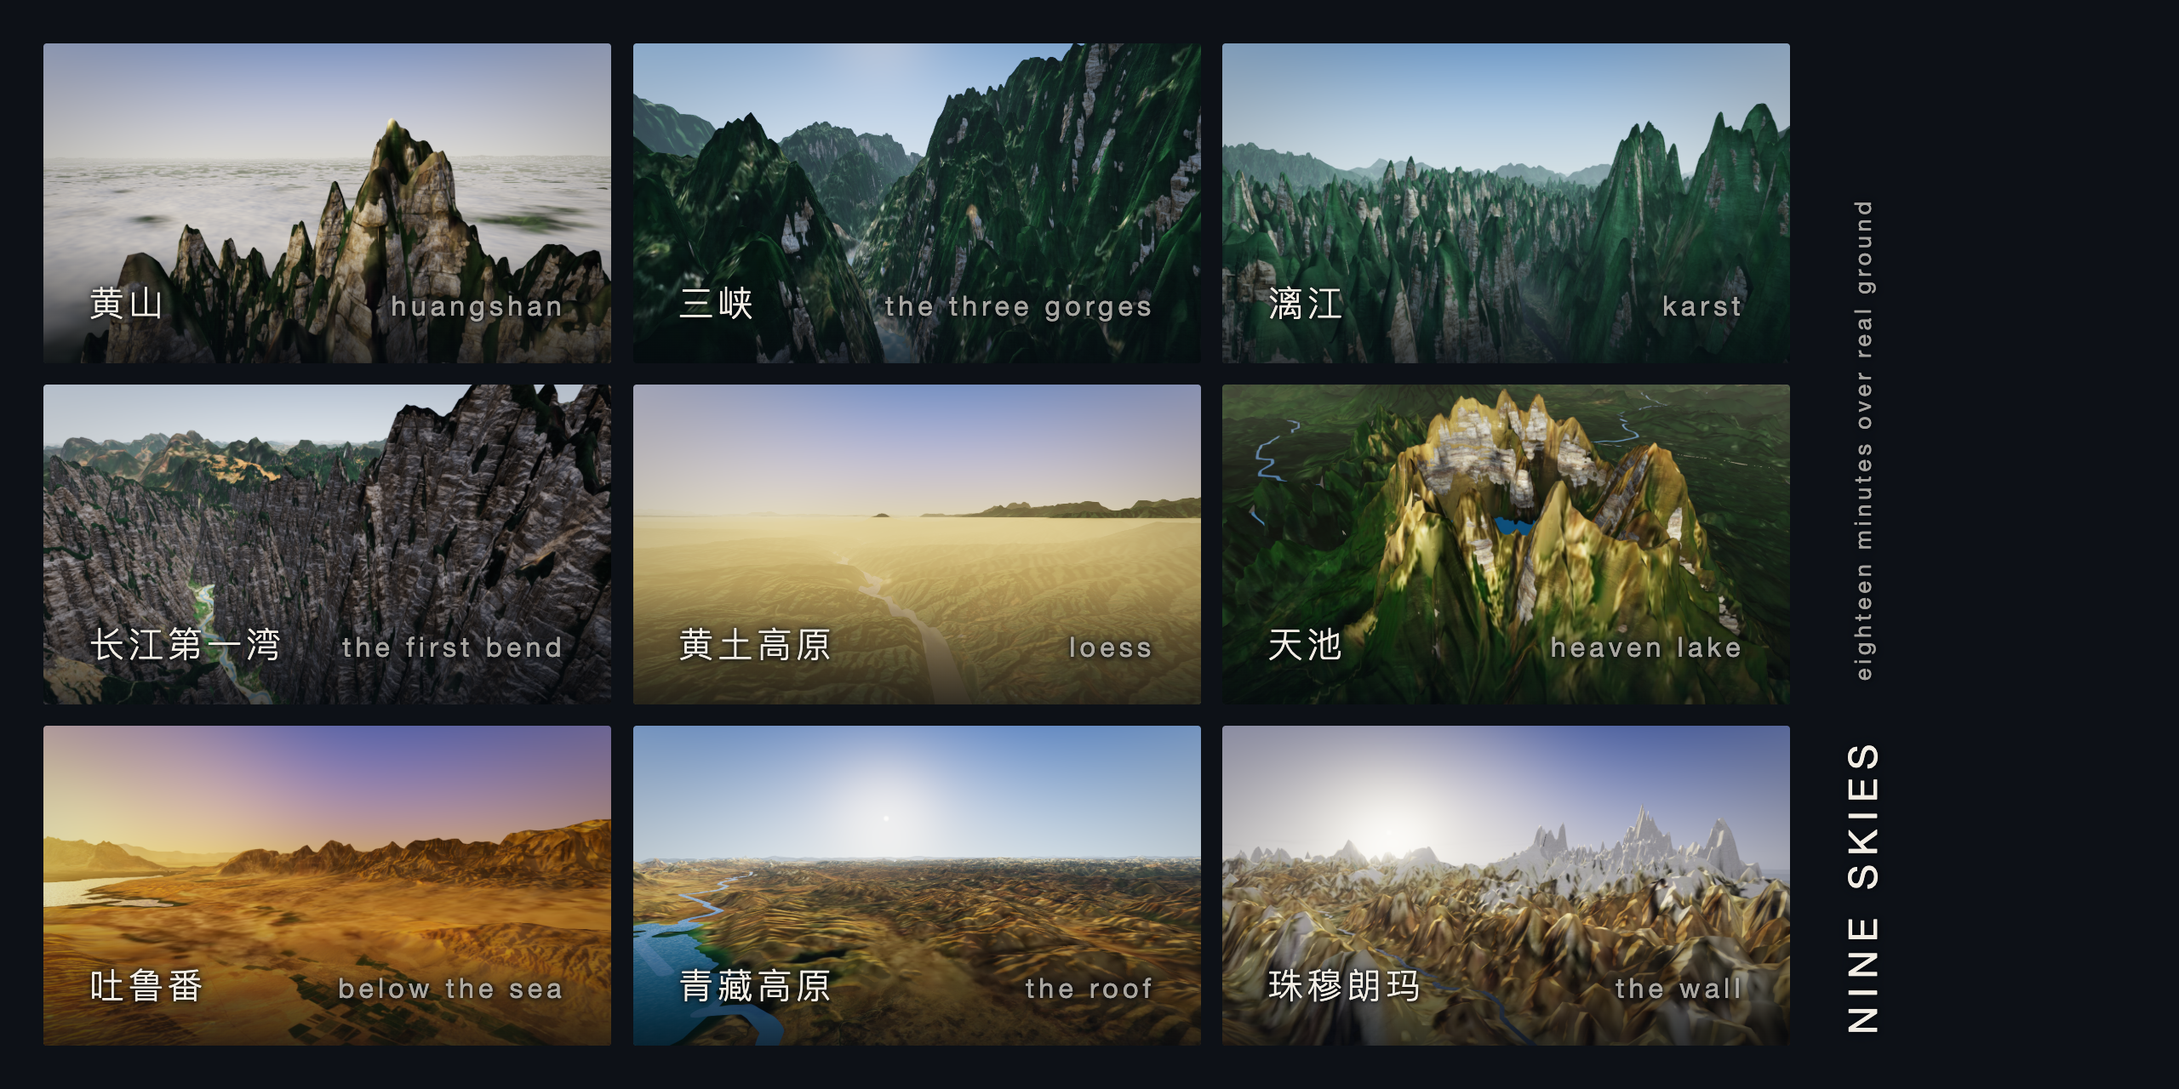
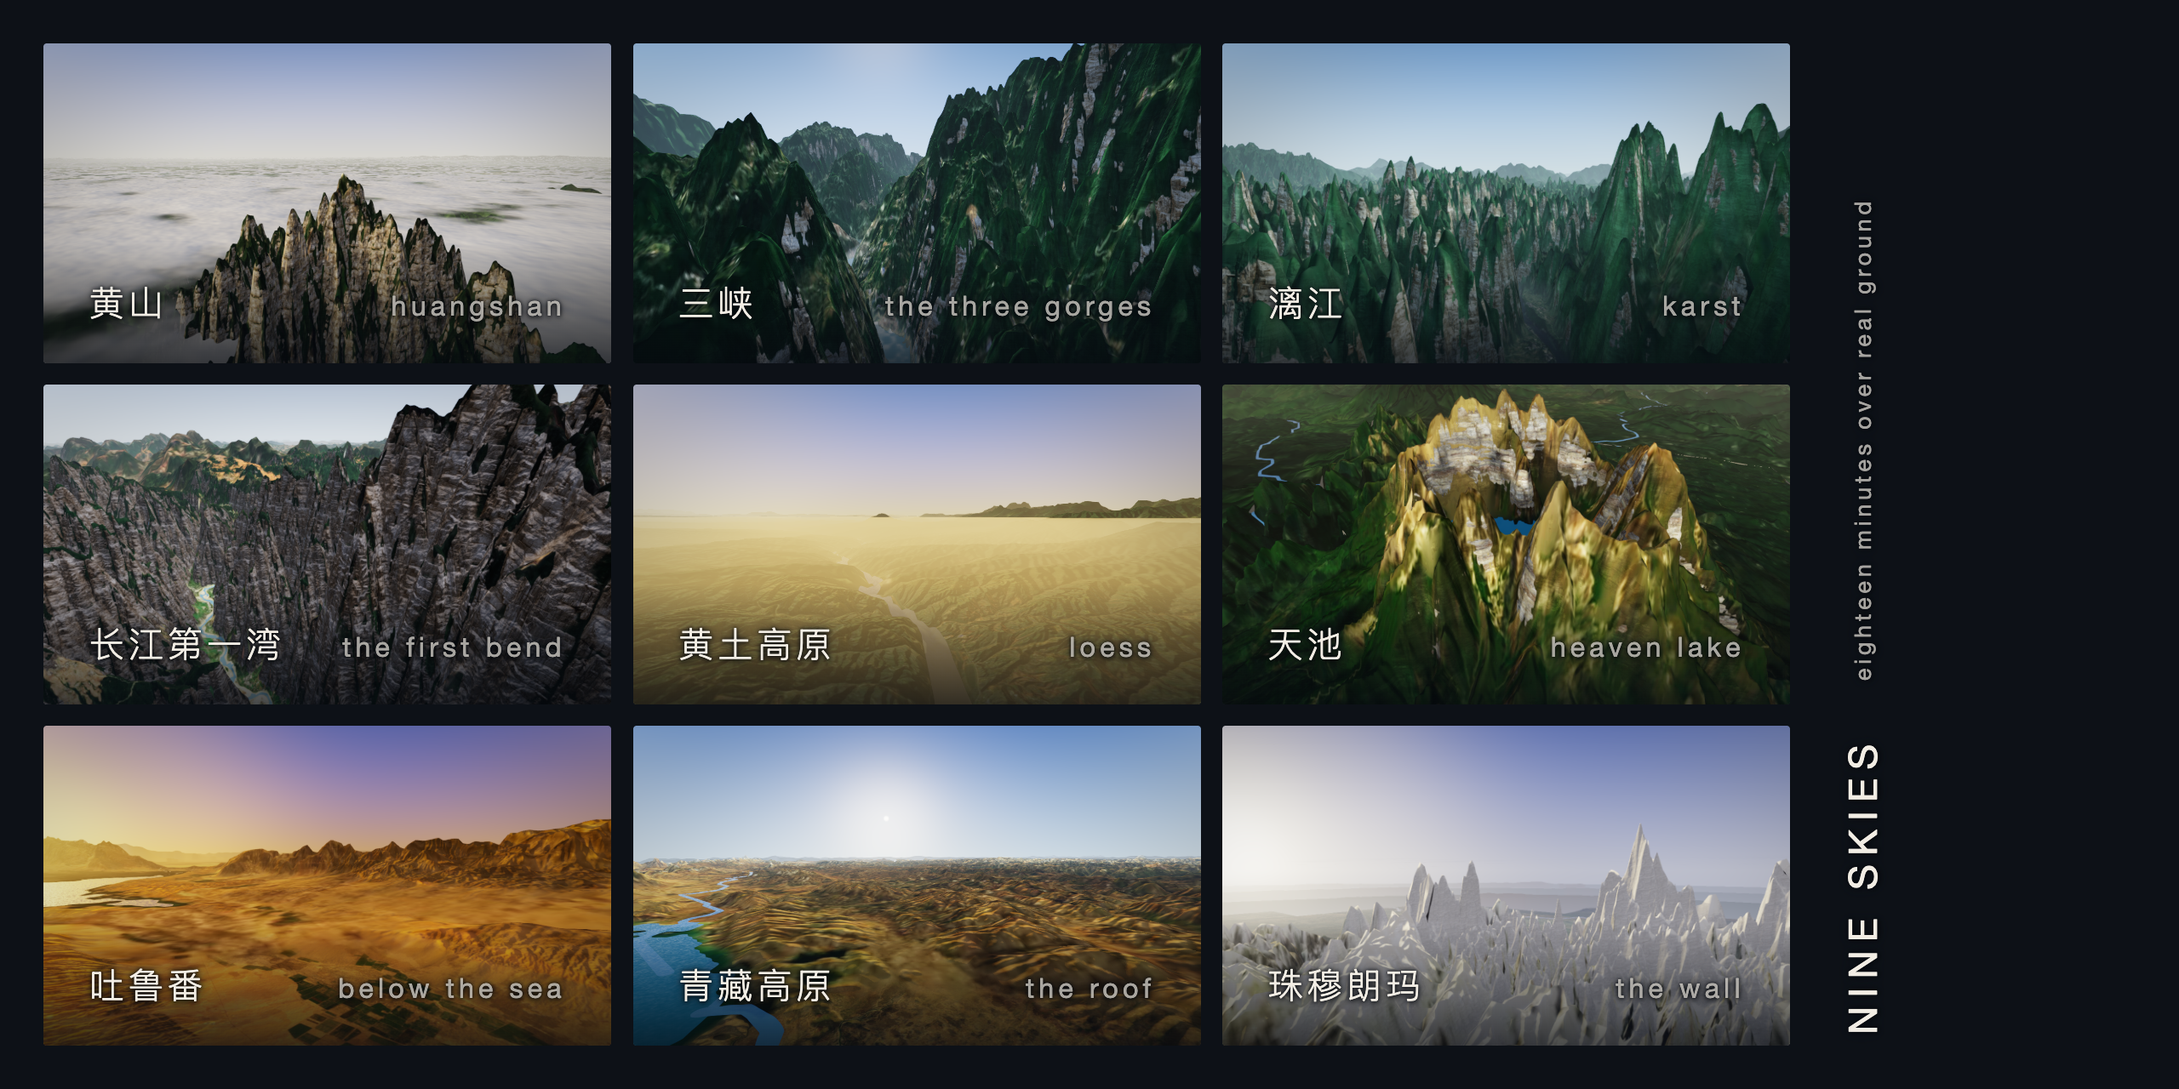
The cover: Huangshan and the Wall from frames of their own
Two cards did not hold up at a card's size. Huangshan's still is 150 m over
the southern peaks, where the granite's photograph, 5.7 m of cliff drawn
60 m to a face (F92), shows its blocks; the Wall's is past Lhatse, where the
coarse ground under the camera, at an apparent exaggeration of six and in
the last light, comes out as large shaded facets.

`npm run cover -- frames` holds each scene on its own rail in a headless
Chrome against the running film and saves the canvas into docs/cover/, not
docs/stills/. Huangshan is taken at 8 s, 800 m up on the way in, the peaks
over the cloud. The Wall at 96 s with the camera at 3,000 m, the top of the
scene's band, and the card cropped to the wall. No frame on the approach is
free of the facets, and the Everest hero grid, from 112 s, draws needles
with cracks between tiles; that is the film's, and left to it. The other
seven cards are the film's stills.

Changed region(s): [[0.5625, 0.6562, 0.8438, 0.9688], [0.0, 0.0938, 0.2812, 0.3438], [0.0312, 0.1562, 0.0625, 0.1875]]

diff --git a/tools/cover.ts b/tools/cover.ts
@@ -1,60 +1,186 @@
 /**
  * `npm run cover`: the cover, drawn by a headless Chrome from
- * tools/cover.html over the stills in docs/stills/. Two images, at
- * 1280 × 640 and twice that in pixels: the sheet of nine cards, which the
- * site serves as its own preview and the README opens with, and the
- * postcards, for a post. Needs the stills and Google Chrome; no server.
+ * tools/cover.html. Two images, at 1280 × 640 and twice that in pixels: the
+ * sheet of nine cards, which the site serves as its own preview and the
+ * README opens with, and the postcards, for a post. Needs Google Chrome; no
+ * server.
+ *
+ * `npm run cover -- frames [scene[@seconds] ...]`: the cover's own frames,
+ * for the scenes whose still does not hold up at a card's size (FRAMES), from
+ * the running film (`npm run dev`) into docs/cover/, then `npm run cover`
+ * again. Every other card is the film's own still, as signed off (D77); the
+ * film's stills are not touched.
  *
  * Chrome's own --screenshot writes the file and then, on this Mac, does not
  * always exit, so the file is what is waited for, and Chrome is stopped.
  */
 import { spawn } from "node:child_process";
-import { existsSync, mkdtempSync, rmSync, statSync } from "node:fs";
+import { existsSync, mkdirSync, mkdtempSync, readFileSync, rmSync, statSync, writeFileSync } from "node:fs";
 import { tmpdir } from "node:os";
 import { join, resolve } from "node:path";
 import { pathToFileURL } from "node:url";
+import { formatProblems, loadFilm } from "./film.ts";
 
 const CHROME = process.env.CHROME ?? "/Applications/Google Chrome.app/Contents/MacOS/Google Chrome";
-const page = pathToFileURL(resolve("tools/cover.html")).href;
-const takes: [string, string][] = [
-  ["", "app/public/cover.png"],
-  ["#postcards", "docs/cover-postcards.png"],
-];
+const URL_ = process.env.NS_URL ?? "http://localhost:5173/";
 const sleep = (ms: number) => new Promise((r) => setTimeout(r, ms));
 
-for (const [hash, out] of takes) {
-  const file = resolve(out);
-  rmSync(file, { force: true });
+/**
+ * Where on its own rail the cover takes a scene whose film still does not
+ * hold up on a card: seconds of flight at the authored speed, and the height
+ * over the ground where it is not the rail's own. `scene@seconds+metres` on
+ * the command line tries another.
+ */
+const FRAMES: Record<string, { at: number; aboveGroundM?: number }> = {
+  // The film's still is at 20 s, 150 m over the southern peaks, where the
+  // granite's photograph, 5.7 m of cliff drawn 60 m to a face on the 30 m
+  // grid (F92), shows its blocks. At 8 s the camera is still 800 m up on the
+  // way in, the peaks ahead over the cloud, and a face is a few pixels.
+  huangshan: { at: 8 },
+  // The film's still is at 60 s, past Lhatse. At the film's apparent
+  // exaggeration of six (engine/src/sim/scale.ts) the coarse ground under
+  // the camera, lit by the last light, comes out as large shaded facets, and
+  // no frame on the approach is without them. The Everest hero grid, from
+  // 112 s, has none, but draws the massif as white needles with cracks
+  // between its tiles. At 96 s with the camera at the top of the scene's
+  // band, 3,000 m, which the film itself reaches (docs/rails-report.md),
+  // the facets are about a third the size; the card is cropped to the wall.
+  "the-wall": { at: 96, aboveGroundM: 3000 },
+};
+/** Drawn at 1920 × 1080: a card is 666 pixels wide at twice the cover's size. */
+const FRAME_W = 1920;
+const FRAME_H = 1080;
+
+/** A headless Chrome of its own, on whatever debugging port is free (see tools/stills.ts). */
+async function withChrome<T>(args: string[], use: (profile: string) => Promise<T>): Promise<T> {
   const profile = mkdtempSync(join(tmpdir(), "nine-skies-cover-"));
   const chrome = spawn(
     CHROME,
-    [
-      "--headless=new",
-      `--user-data-dir=${profile}`,
-      "--no-first-run",
-      "--no-default-browser-check",
-      "--hide-scrollbars",
-      "--window-size=1280,640",
-      "--force-device-scale-factor=2",
-      "--virtual-time-budget=3000",
-      `--screenshot=${file}`,
-      page + hash,
-    ],
+    ["--headless=new", `--user-data-dir=${profile}`, "--no-first-run", "--no-default-browser-check", ...args],
     { stdio: "ignore" },
   );
-  let size = 0;
-  for (let waited = 0; waited < 60_000; waited += 250) {
-    await sleep(250);
-    if (!existsSync(file)) continue;
-    const now = statSync(file).size;
-    if (now > 0 && now === size) break; // written, and no longer growing
-    size = now;
+  try {
+    return await use(profile);
+  } finally {
+    chrome.kill("SIGKILL");
+    await sleep(300);
+    rmSync(profile, { recursive: true, force: true, maxRetries: 5, retryDelay: 200 });
   }
-  chrome.kill("SIGKILL");
-  rmSync(profile, { recursive: true, force: true });
-  if (size === 0) {
-    console.error(`chrome did not write ${out}`);
-    process.exit(1);
+}
+
+async function drawCover(): Promise<void> {
+  const page = pathToFileURL(resolve("tools/cover.html")).href;
+  const takes: [string, string][] = [
+    ["", "app/public/cover.png"],
+    ["#postcards", "docs/cover-postcards.png"],
+  ];
+  for (const [hash, out] of takes) {
+    const file = resolve(out);
+    rmSync(file, { force: true });
+    const size = await withChrome(
+      [
+        "--hide-scrollbars",
+        "--window-size=1280,640",
+        "--force-device-scale-factor=2",
+        "--virtual-time-budget=3000",
+        `--screenshot=${file}`,
+        page + hash,
+      ],
+      async () => {
+        let size = 0;
+        for (let waited = 0; waited < 60_000; waited += 250) {
+          await sleep(250);
+          if (!existsSync(file)) continue;
+          const now = statSync(file).size;
+          if (now > 0 && now === size) break; // written, and no longer growing
+          size = now;
+        }
+        return size;
+      },
+    );
+    if (size === 0) throw new Error(`chrome did not write ${out}`);
+    console.log(`${out}: 2560 × 1280, ${(size / 1e6).toFixed(1)} MB`);
   }
-  console.log(`${out}: 2560 × 1280, ${(size / 1e6).toFixed(1)} MB`);
+}
+
+async function drawFrames(wanted: string[]): Promise<void> {
+  const { film, problems } = loadFilm();
+  if (problems.length) throw new Error(formatProblems(problems));
+  const takes = (wanted.length ? wanted : Object.keys(FRAMES)).map((w) => {
+    const [id, spec] = w.split("@");
+    const [at, above] = (spec ?? "").split("+");
+    const i = film.scenes.findIndex((s) => s.id === id);
+    const frame = spec === undefined ? FRAMES[id!] : { at: Number(at), aboveGroundM: above ? Number(above) : undefined };
+    if (i < 0 || !frame || !Number.isFinite(frame.at)) {
+      throw new Error(`${w}: give a scene of the film and seconds, or one of ${Object.keys(FRAMES).join(", ")}`);
+    }
+    return { i, id: id!, seconds: frame.at, aboveGroundM: frame.aboveGroundM ?? null };
+  });
+  mkdirSync("docs/cover", { recursive: true });
+
+  await withChrome(["--remote-debugging-port=0", `--window-size=${FRAME_W},${FRAME_H}`, "about:blank"], async (profile) => {
+    let socketUrl: string | undefined;
+    for (let k = 0; k < 600 && !socketUrl; k++) {
+      await sleep(200);
+      try {
+        const port = readFileSync(join(profile, "DevToolsActivePort"), "utf8").split("\n")[0];
+        const targets = (await (await fetch(`http://127.0.0.1:${port}/json`)).json()) as { type: string; webSocketDebuggerUrl: string }[];
+        socketUrl = targets.find((t) => t.type === "page")?.webSocketDebuggerUrl;
+      } catch {
+        // not listening yet
+      }
+    }
+    if (!socketUrl) throw new Error(`Chrome did not open (${CHROME})`);
+    const ws = new WebSocket(socketUrl);
+    await new Promise((r) => ws.addEventListener("open", r));
+    let id = 0;
+    type Reply = { result?: { result?: { value?: unknown }; exceptionDetails?: { text: string } } };
+    const waiting = new Map<number, (m: Reply) => void>();
+    ws.addEventListener("message", (e) => {
+      const m = JSON.parse(String(e.data));
+      waiting.get(m.id)?.(m);
+      waiting.delete(m.id);
+    });
+    const send = (method: string, params: object = {}) =>
+      new Promise<Reply>((done) => {
+        waiting.set(++id, done);
+        ws.send(JSON.stringify({ id, method, params }));
+      });
+    const run = async (expression: string): Promise<unknown> => {
+      const m = await send("Runtime.evaluate", { expression, awaitPromise: true, returnByValue: true });
+      if (m.result?.exceptionDetails) throw new Error(`${expression.slice(0, 80)}: ${m.result.exceptionDetails.text}`);
+      return m.result?.result?.value;
+    };
+    await send("Emulation.setDeviceMetricsOverride", { width: FRAME_W, height: FRAME_H, deviceScaleFactor: 1, mobile: false });
+    await send("Page.navigate", { url: URL_ });
+    let ready = false;
+    for (let k = 0; k < 300 && !ready; k++) {
+      await sleep(200);
+      ready = (await run("typeof window.__ns === 'object' && typeof window.__ns.hold === 'function'").catch(() => false)) === true;
+    }
+    if (!ready) throw new Error(`the film did not start at ${URL_}: is \`npm run dev\` running?`);
+    for (const t of takes) {
+      await run(`__ns.hold(${t.i}, ${t.seconds})`);
+      // The held camera is placed at this height over the ground every frame, within the scene's band.
+      if (t.aboveGroundM !== null) await run(`__ns.pinned().aboveGroundM = ${t.aboveGroundM}`);
+      const settled = await run("__ns.settled()");
+      // Drawn and read in one task, so the frame read is the one just drawn.
+      const url = (await run("(__ns.rig.render(), document.getElementById('view').toDataURL('image/png'))")) as string;
+      const png = Buffer.from(url.slice(url.indexOf(",") + 1), "base64");
+      const out = `docs/cover/${t.id}.png`;
+      writeFileSync(out, png);
+      const height = t.aboveGroundM === null ? "" : `, ${t.aboveGroundM} m up`;
+      console.log(`${out}: ${t.seconds} s${height}, ${FRAME_W} × ${FRAME_H}${settled ? "" : "  (the ground had not settled in 45 s)"}`);
+    }
+    ws.close();
+  });
+}
+
+const [mode, ...rest] = process.argv.slice(2);
+try {
+  if (mode === "frames") await drawFrames(rest);
+  else await drawCover();
+} catch (e) {
+  console.error((e as Error).message);
+  process.exit(1);
 }

diff --git a/tools/cover.html b/tools/cover.html
@@ -6,7 +6,9 @@
 <!-- The cover: the nine scenes as nine cards, and the same scenes as
      postcards for a post. `npm run cover` draws both with a headless Chrome.
      The frame is the window: 1280 × 640, the size GitHub and Open Graph use.
-     #sheet is the cover; #postcards the second image. -->
+     #sheet is the cover; #postcards the second image. Huangshan and the
+     Wall are the cover's own frames, from `npm run cover -- frames`; the
+     other seven are the film's stills. -->
 <style>
   :root {
     --ground: #0d1117; --ground-2: #131923;
@@ -31,7 +33,10 @@
     gap: 2cqh; padding: 4cqh; height: 100cqh; aspect-ratio: 1.683;
   }
   .card { position: relative; overflow: hidden; border-radius: 2px; background: var(--ground-2); container-type: size; }
-  .card img { position: absolute; inset: 0; width: 100%; height: 100%; object-fit: cover; object-position: var(--pos, 50% 50%); }
+  .card img, .post .photo img {
+    position: absolute; inset: 0; width: 100%; height: 100%; object-fit: cover; object-position: var(--pos, 50% 50%);
+    transform: scale(var(--zoom, 1)); transform-origin: var(--pos, 50% 50%);
+  }
   .card .cap {
     position: absolute; inset: auto 0 0 0; padding: 6% 8%; display: flex; justify-content: space-between; align-items: baseline; gap: .5em;
     background: linear-gradient(to top, rgba(6,10,16,.7), rgba(6,10,16,0));
@@ -52,7 +57,7 @@
     box-shadow: 0 2cqh 5cqh rgba(0,0,0,.55); transform: rotate(var(--r)); left: var(--x); top: var(--y);
     color: #1a1712; text-shadow: none;
   }
-  .post img { width: 100%; height: 100%; object-fit: cover; object-position: var(--pos, 50% 50%); display: block; }
+  .post .photo { position: relative; width: 100%; height: 100%; overflow: hidden; }
   .post .cap { position: absolute; left: 1.6cqh; right: 1.6cqh; bottom: 1.3cqh; display: flex; justify-content: space-between; align-items: baseline; font-size: 2cqh; letter-spacing: .12em; }
   .post .cap .en { color: rgba(26,23,18,.6); text-transform: lowercase; letter-spacing: .16em; font-size: .85em; }
   .stack { position: absolute; inset: 9cqh auto auto 6cqw; display: grid; gap: .2em; }
@@ -62,12 +67,12 @@
 </head>
 <body>
   <div class="frame" id="postcards">
-    <div class="post" style="--pos:55% 60%;--x:38cqw;--y:12cqh;--r:-9deg"><img src="../docs/stills/03-karst.png" alt="Karst"><div class="cap"><span class="zh">漓江</span><span class="en">Karst</span></div></div>
-    <div class="post" style="--pos:50% 62%;--x:52cqw;--y:30cqh;--r:6deg"><img src="../docs/stills/05-loess.png" alt="Loess"><div class="cap"><span class="zh">黄土高原</span><span class="en">Loess</span></div></div>
-    <div class="post" style="--pos:50% 45%;--x:33cqw;--y:44cqh;--r:-4deg"><img src="../docs/stills/06-grassland-to-heaven-lake.png" alt="Heaven Lake"><div class="cap"><span class="zh">天池</span><span class="en">Heaven Lake</span></div></div>
-    <div class="post" style="--pos:55% 60%;--x:66cqw;--y:8cqh;--r:11deg"><img src="../docs/stills/07-below-the-sea.png" alt="Below the Sea"><div class="cap"><span class="zh">吐鲁番</span><span class="en">Below the Sea</span></div></div>
-    <div class="post" style="--pos:60% 60%;--x:48cqw;--y:52cqh;--r:-2deg"><img src="../docs/stills/01-huangshan.png" alt="Huangshan"><div class="cap"><span class="zh">黄山</span><span class="en">Huangshan</span></div></div>
-    <div class="post" style="--pos:72% 55%;--x:68cqw;--y:40cqh;--r:5deg"><img src="../docs/stills/09-the-wall.png" alt="The Wall"><div class="cap"><span class="zh">珠穆朗玛</span><span class="en">The Wall</span></div></div>
+    <div class="post" style="--pos:55% 60%;--x:38cqw;--y:12cqh;--r:-9deg"><div class="photo"><img src="../docs/stills/03-karst.png" alt="Karst"></div><div class="cap"><span class="zh">漓江</span><span class="en">Karst</span></div></div>
+    <div class="post" style="--pos:50% 62%;--x:52cqw;--y:30cqh;--r:6deg"><div class="photo"><img src="../docs/stills/05-loess.png" alt="Loess"></div><div class="cap"><span class="zh">黄土高原</span><span class="en">Loess</span></div></div>
+    <div class="post" style="--pos:50% 45%;--x:33cqw;--y:44cqh;--r:-4deg"><div class="photo"><img src="../docs/stills/06-grassland-to-heaven-lake.png" alt="Heaven Lake"></div><div class="cap"><span class="zh">天池</span><span class="en">Heaven Lake</span></div></div>
+    <div class="post" style="--pos:55% 60%;--x:66cqw;--y:8cqh;--r:11deg"><div class="photo"><img src="../docs/stills/07-below-the-sea.png" alt="Below the Sea"></div><div class="cap"><span class="zh">吐鲁番</span><span class="en">Below the Sea</span></div></div>
+    <div class="post" style="--pos:50% 70%;--x:48cqw;--y:52cqh;--r:-2deg"><div class="photo"><img src="../docs/cover/huangshan.png" alt="Huangshan"></div><div class="cap"><span class="zh">黄山</span><span class="en">Huangshan</span></div></div>
+    <div class="post" style="--pos:60% 30%;--zoom:1.35;--x:68cqw;--y:40cqh;--r:5deg"><div class="photo"><img src="../docs/cover/the-wall.png" alt="The Wall"></div><div class="cap"><span class="zh">珠穆朗玛</span><span class="en">The Wall</span></div></div>
     <div class="stack">
       <div class="en">Nine Skies</div>
       <div class="line">Eighteen minutes over real ground.<br>Nine places you would not have put in China.</div>
@@ -76,7 +81,7 @@
   <div class="frame" id="sheet">
     <div class="sheet">
       <div class="grid">
-        <div class="card" style="--pos:60% 60%"><img src="../docs/stills/01-huangshan.png" alt="Huangshan"><div class="cap"><span class="zh">黄山</span><span class="en">Huangshan</span></div></div>
+        <div class="card" style="--pos:50% 70%"><img src="../docs/cover/huangshan.png" alt="Huangshan"><div class="cap"><span class="zh">黄山</span><span class="en">Huangshan</span></div></div>
         <div class="card" style="--pos:45% 45%"><img src="../docs/stills/02-three-gorges.png" alt="The Three Gorges"><div class="cap"><span class="zh">三峡</span><span class="en">The Three Gorges</span></div></div>
         <div class="card" style="--pos:55% 60%"><img src="../docs/stills/03-karst.png" alt="Karst"><div class="cap"><span class="zh">漓江</span><span class="en">Karst</span></div></div>
         <div class="card" style="--pos:35% 55%"><img src="../docs/stills/04-first-bend.png" alt="The First Bend"><div class="cap"><span class="zh">长江第一湾</span><span class="en">The First Bend</span></div></div>
@@ -84,7 +89,7 @@
         <div class="card" style="--pos:50% 45%"><img src="../docs/stills/06-grassland-to-heaven-lake.png" alt="Heaven Lake"><div class="cap"><span class="zh">天池</span><span class="en">Heaven Lake</span></div></div>
         <div class="card" style="--pos:55% 60%"><img src="../docs/stills/07-below-the-sea.png" alt="Below the Sea"><div class="cap"><span class="zh">吐鲁番</span><span class="en">Below the Sea</span></div></div>
         <div class="card" style="--pos:35% 60%"><img src="../docs/stills/08-the-roof.png" alt="The Roof"><div class="cap"><span class="zh">青藏高原</span><span class="en">The Roof</span></div></div>
-        <div class="card" style="--pos:72% 55%"><img src="../docs/stills/09-the-wall.png" alt="The Wall"><div class="cap"><span class="zh">珠穆朗玛</span><span class="en">The Wall</span></div></div>
+        <div class="card" style="--pos:60% 30%;--zoom:1.35"><img src="../docs/cover/the-wall.png" alt="The Wall"><div class="cap"><span class="zh">珠穆朗玛</span><span class="en">The Wall</span></div></div>
       </div>
       <div class="spine">Nine Skies<small>eighteen minutes over real ground</small></div>
     </div>

diff --git a/README.md b/README.md
@@ -58,9 +58,12 @@ In the dev server the console has `__ns`: `__ns.hold(i, seconds)` holds a
 scene, `await __ns.settled()` waits for its ground to land,
 `await __ns.still(name, 1280, 720)` writes a still to
 `docs/stills/`, and `__ns.frameCost()` asks the GPU what a frame costs.
-`npm run cover` draws the cover, the nine stills as nine cards, from
+`npm run cover` draws the cover, the nine scenes as nine cards, from
 `tools/cover.html` with a headless Chrome: `app/public/cover.png`, and the
-postcards in `docs/cover-postcards.png`.
+postcards in `docs/cover-postcards.png`. Seven cards are the stills; Huangshan
+and the Wall, whose stills do not hold up that small, are the cover's own
+frames in `docs/cover/`, taken again with `npm run cover -- frames` while the
+dev server runs.
 `?frametime` shows the frame time by wall clock, for a phone.
 
 ## What the repository holds
